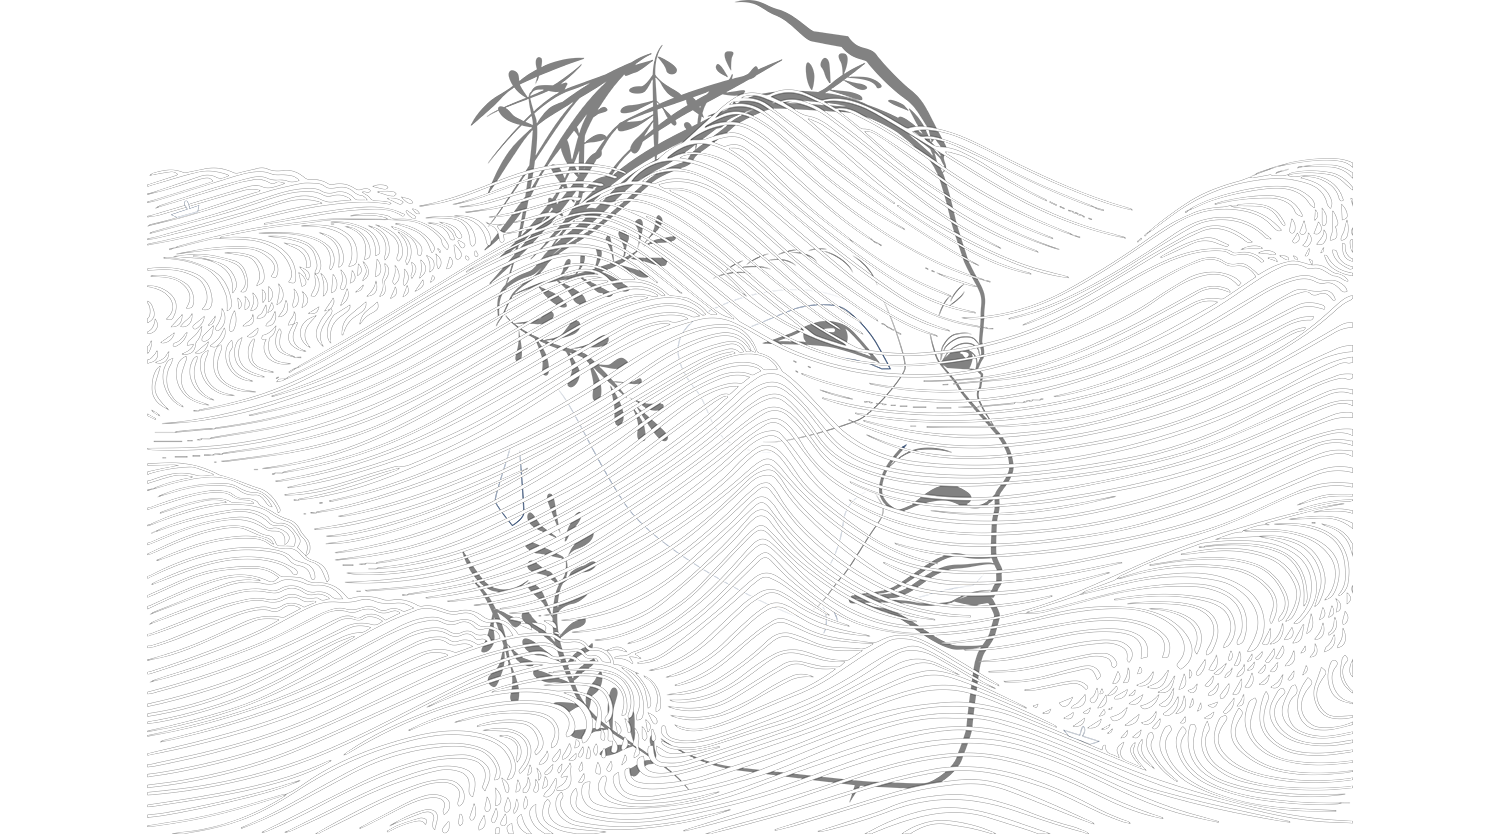
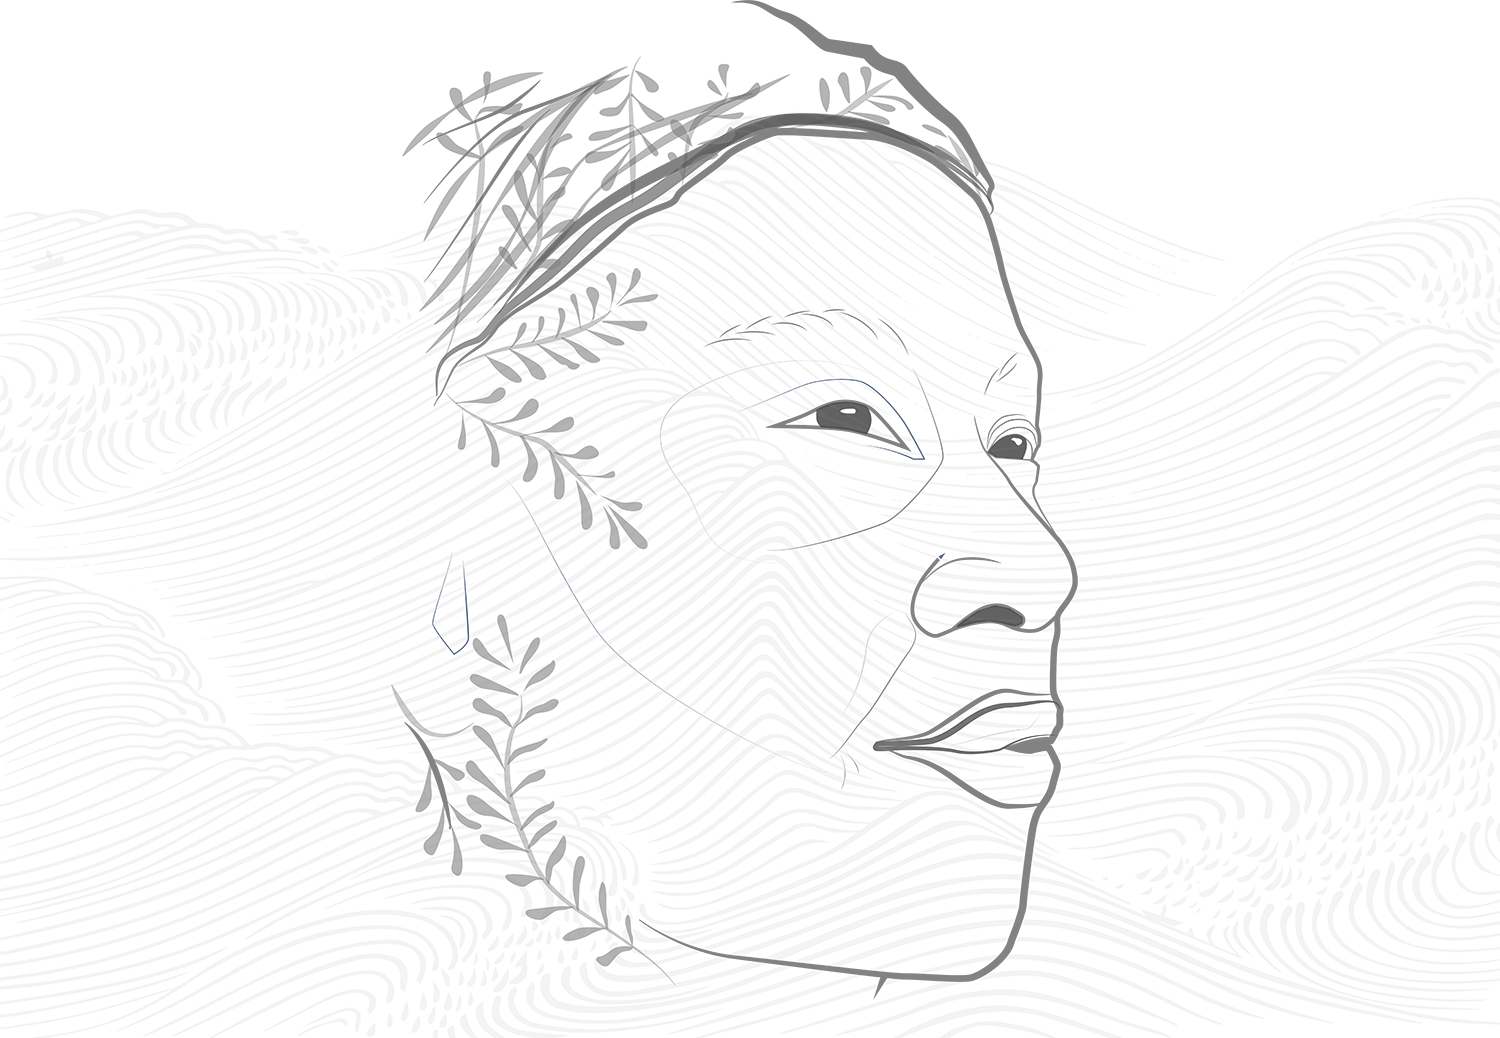
Update architecture

Changed region(s): [[0.092, 0.0, 0.92, 1.0]]

diff --git a/src/App.js b/src/App.js
@@ -1,80 +1,126 @@
 import logo from './logo.svg';
 import './App.css';
-import React, { Component } from 'react';
+import * as React from "react"
 import Fullpage, { FullPageSections, FullpageSection, FullpageNavigation } from '@ap.cx/react-fullpage';
 
-import Backdrop from '@mui/material/Backdrop';
-import Box from '@mui/material/Box';
-import Modal from '@mui/material/Modal';
-import Fade from '@mui/material/Fade';
-import Card from '@mui/material/Card';
-import CardActions from '@mui/material/CardActions';
 import CardContent from '@mui/material/CardContent';
-import CardMedia from '@mui/material/CardMedia';
-import Button from '@mui/material/Button';
 import Typography from '@mui/material/Typography';
 import IconButton from '@mui/material/IconButton';
 import { useTheme } from '@mui/material/styles';
 import Popover from '@mui/material/Popover';
+import Button from '@mui/material/Button';
+import Snackbar from '@mui/material/Snackbar';
+import CloseIcon from '@mui/icons-material/Close';
 
 import Basemap from './basemap';
 
 
 
-export default class App extends Component {
-  
-  render() {
-    return (
-      <Fullpage>
+const App = () => {
 
-        <div className='dot'>
-          <FullpageNavigation style={{
 
-          }}> </FullpageNavigation>
-        </div>
+  const [open, setOpen] = React.useState(false)
 
-        <FullPageSections>
-
-          <FullpageSection style={{
-            backgroundColor: 'white',
-            height: '80vh',
-            padding: '1em',
-          }}>
-            <CardContent sx={{ maxWidth: 800 }}>
-              <Typography className="sentence" sx={{ mt: 2 }}>My name is Beatrice and I am an Alur fisherwoman from Lake Albert</Typography>
-            </CardContent>
-            <div id='portrait'> </div>
-          </FullpageSection>
-
-          <FullpageSection style={{
-            backgroundColor: 'white',
-            height: '60vh',
-            padding: '1em',
-          }}>
-            <CardContent sx={{ maxWidth: 800 }}>
-              <Typography className="sentence" sx={{ mt: 2 }}>I live in the village of Dei, exactly on the administrative border between Uganda and DRC. Our land is in a unique place, a plain enclosed between the mountain and the lake
-              </Typography>
-            </CardContent>
-          </FullpageSection>
-
-          <FullpageSection style={{
-            backgroundColor: 'white',
-            height: '80vh',
-            padding: '1em',
-          }}>
-            <Basemap />
-          </FullpageSection>
-
-          <FullpageSection style={{
-            backgroundColor: 'white',
-            height: '100vh',
-            padding: '1em',
-          }}>3
-          </FullpageSection>
-
-        </FullPageSections>
-
-      </Fullpage>
-    )
+  const handleClick = () => {
+    setOpen(true)
   }
+
+  const handleClose = (event, reason) => {
+    if (reason === "clickaway") {
+      return
+    }
+
+    setOpen(false)
+  }
+
+  const action = (
+    <React.Fragment>
+      <Button color="secondary" size="small" onClick={handleClose}>
+      </Button>
+      <IconButton
+        size="small"
+        aria-label="close"
+        color="inherit"
+        onClick={handleClose}
+      >
+        <CloseIcon fontSize="small" />
+      </IconButton>
+    </React.Fragment>
+  )
+
+  return (
+    <Fullpage>
+
+      <div className='dot'>
+        <FullpageNavigation style={{}}> </FullpageNavigation>
+      </div>
+
+      <FullPageSections>
+
+        <FullpageSection className='portrait' style={{
+          backgroundColor: 'white',
+          height: '80vh',
+          padding: '1em',
+        }}>
+          <CardContent sx={{ maxWidth: 800 }}>
+            <Typography component='div' className="sentence" sx={{ mt: 2 }}>My name is Beatrice and I am an Alur<Button onClick={handleClick}>^</Button>
+              <Snackbar
+                open={open}
+                autoHideDuration={60000}
+                onClose={handleClose}
+                message="More than 60 percent of us fishers practise subsistence farming to supplement our livelihoods. Only slightly less than a third of us manage to subsist exclusively on fishing or fish trading. This means that some, regardless of their vocation as fishers, rely on fishing to diversify their livelihoods"
+                action={action}
+              />
+              fisherwoman from Lake Albert<Button onClick={handleClick}>^</Button>
+              <Snackbar
+                open={open}
+                autoHideDuration={60000}
+                onClose={handleClose}
+                message="Development contextual analysis p.12, RED list biodiversità o BII come immagine? O simulation CLIMA e cambiamento dell’uso del suolo?"
+                action={action}
+              /></Typography>
+          </CardContent>
+          {/* <div id='portrait'> </div> */}
+        </FullpageSection>
+
+        <FullpageSection style={{
+          backgroundColor: 'white',
+          height: '60vh',
+          padding: '1em',
+        }}>
+          <CardContent sx={{ maxWidth: 800 }}>
+            <Typography component='div' className="sentence" sx={{ mt: 2 }}>I live in the village of Dei, exactly on the administrative border between Uganda and DRC. Our land is in a unique place,<Button onClick={handleClick}>^</Button>
+              <Snackbar
+                open={open}
+                autoHideDuration={60000}
+                onClose={handleClose}
+                message="Development contextual analysis p.12, RED list biodiversità o BII come immagine? O simulation CLIMA e cambiamento dell’uso del suolo?"
+                action={action}
+              /> a plain enclosed between the mountain and the lake
+            </Typography>
+          </CardContent>
+        </FullpageSection>
+
+        <FullpageSection style={{
+          backgroundColor: 'white',
+          height: '80vh',
+          padding: '1em',
+        }}>
+          <Basemap />
+        </FullpageSection>
+
+        <FullpageSection style={{
+          backgroundColor: 'white',
+          height: '100vh',
+          padding: '1em',
+        }}>3
+        </FullpageSection>
+
+      </FullPageSections>
+
+    </Fullpage>
+  )
 }
+
+
+export default App;

diff --git a/src/App.css b/src/App.css
@@ -49,27 +49,61 @@
   }
 }
 
-.sentence{
-  font-family: 'IBM Plex Mono', monospace !important;  
+.sentence {
+  font-family: 'IBM Plex Mono', monospace !important;
   -webkit-font-smoothing: antialiased;
   -moz-osx-font-smoothing: grayscale;
   font-weight: 400 !important;
   font-size: 2.5em !important;
   letter-spacing: 5px !important;
   line-height: 1em !important;
-  -webkit-text-fill-color: transparent;
+  -webkit-text-fill-color: white;
   -webkit-text-stroke-width: 1px;
   -webkit-text-stroke-color: rgb(80, 80, 80);
-  text-shadow: 
-     10px 10px rgba(146, 145, 145, 0.1)  !important;
+  text-shadow:
+    10px 10px rgba(146, 145, 145, 0.1) !important;
+}
+
+.portrait {
+  background: url("../public/img/beatrice.png") no-repeat;
+  background-repeat: no-repeat;
+  background-size: 70vw;
+  height: 100vh;
+  background-attachment: fixed;
+  background-position: bottom right;
 }
 
 #portrait {
   background: url("../public/img/beatrice.png") no-repeat;
   background-repeat: no-repeat;
-  background-size: 90vw;
+  background-size: 70vw;
   height: 100vh;
   background-attachment: fixed;
-  background-position: top center;
+  background-position: bottom right;
+}
 
+.MuiSnackbar-root.MuiSnackbar-anchorOriginBottomLeft.css-cpgvjg-MuiSnackbar-root {
+  position: relative;
+  margin-top: 24px;
+}
+
+.MuiPaper-root.MuiPaper-elevation.MuiPaper-elevation6.MuiSnackbarContent-root {
+  background-color: white;
+  font-family: 'IBM Plex Mono', monospace !important;
+  -webkit-font-smoothing: antialiased;
+  -moz-osx-font-smoothing: grayscale;
+  font-weight: lighter !important;
+  font-size: 0.3em !important;
+  box-shadow: none;
+  outline: 1px solid rgb(80, 80, 80);
+  outline-offset: 3px;
+}
+
+.MuiSvgIcon-root.MuiSvgIcon-fontSizeSmall{
+  color: rgba(80, 80, 80, 0.8);
+}
+
+.MuiTouchRipple-root.css-8je8zh-MuiTouchRipple-root{
+  outline: 1px solid rgba(146, 145, 145, 0.2);
+  outline-offset: -8px;
 }
